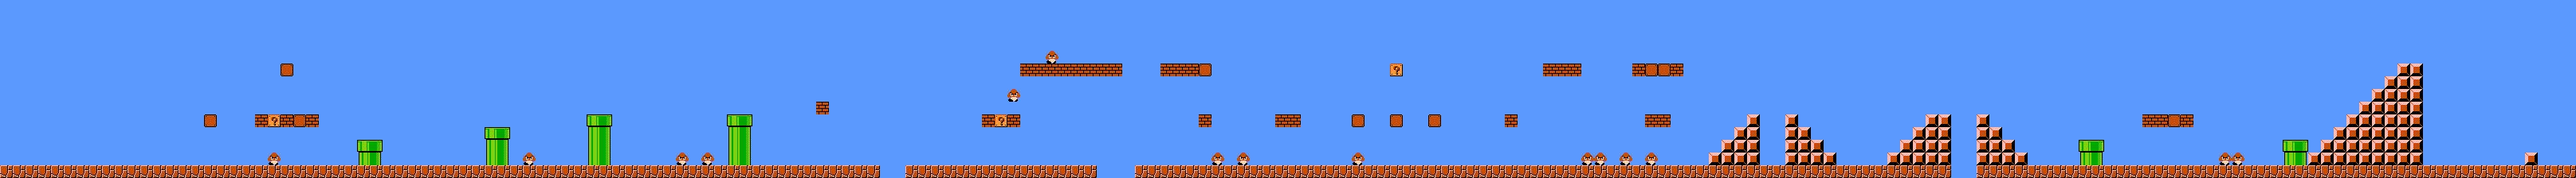
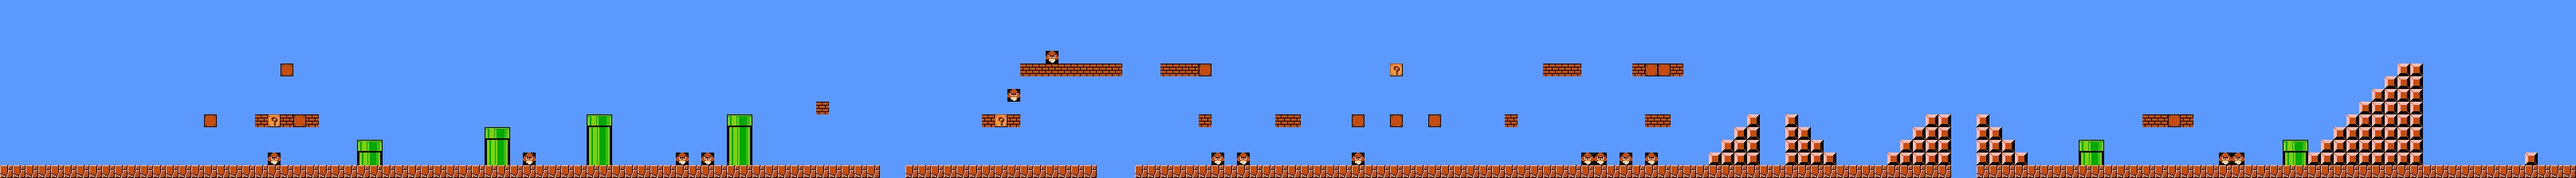
Added one last pixel gen method to see it if improves the results. Also added a SampleImage Generate that creates a sketch version of the model for testing

diff --git a/Main/PixelGen.py b/Main/PixelGen.py
@@ -10,6 +10,20 @@ def get_histogram_of_image(image):
     histogram = cv2.normalize(histogram, histogram).flatten()
     return histogram
 
+
+def get_average_pix(image):
+    height, width, channels = image.shape
+    avrg = [0, 0, 0]
+    for x2 in range(0, width):
+	    for y2 in range(0, height):
+		    pixelVal = image[x2,y2]
+		    avrg = [sum(x) for x in zip(avrg, pixelVal)] 
+    
+    tile_size = height*width
+    avrg = [int(avrg[0]/tile_size), int(avrg[1]/tile_size), int(avrg[2]/tile_size)]
+    return avrg
+
+
 def generate(img, sprites, spriteAsciiMap, tile_size = 16, asset_type = 'histogram'):
     opencv_img = img
     (row_max, column_max, rgb_max) = opencv_img.shape
@@ -25,12 +39,13 @@ def generate(img, sprites, spriteAsciiMap, tile_size = 16, asset_type = 'histogr
     # Get histograms of sprites
     sprites_images = {}
     sprites_histogram = {}
+    sprites_avrg = {}
     for sprite_name in sprites:
         sprite_img = sprites[sprite_name][1]
         sprite_img_cv = np.array(sprite_img)
-        sprite_img_cv = sprite_img_cv[:, :, ::-1].copy()
         sprites_images[sprite_name] = sprite_img
         sprites_histogram[sprite_name] = get_histogram_of_image(sprite_img_cv)
+        sprites_avrg[sprite_name] = get_average_pix(sprite_img_cv)
         
     # Find best game ascii for each tile
     image_output = []
@@ -45,16 +60,22 @@ def generate(img, sprites, spriteAsciiMap, tile_size = 16, asset_type = 'histogr
                     tile = cv2.resize(tile, (tile_size,tile_size))
                     sprite_img = cv2.resize(sprite_img, (tile_size,tile_size))
                     results[sprite_name] = (np.square(tile - sprite_img)).mean(axis=None)
-                    #results[sprite_name] = EvaluatePixel.evaluate(tile, sprite_img)
-                results = sorted([(v, k) for (k, v) in results.items()], reverse = False)
+                    #results[sprite_name] = EvaluatePixel.evaluate_cv(tile, sprite_img)
+                results = sorted([(v, k) for (k, v) in results.items()], reverse=False)
             if asset_type == 'histogram':
+                tile_histogram = get_histogram_of_image(tile)
                 for sprite_name in sprites_histogram:
                     sprite_histogram = sprites_histogram[sprite_name]
-                    tile_histogram = get_histogram_of_image(tile)
                     results[sprite_name] = cv2.compareHist(tile_histogram, sprite_histogram, cv2.HISTCMP_BHATTACHARYYA)
                     #HISTCMP_CORREL #HISTCMP_BHATTACHARYYA
                 results = sorted([(v, k) for (k, v) in results.items()], reverse = False)
-                    
+            if asset_type == 'avrg':
+                tile_avrg = get_average_pix(tile)
+                for sprite_name in sprites_avrg:
+                    sprite_avrg = sprites_avrg[sprite_name]
+                    results[sprite_name] = abs(tile_avrg[0] - sprite_avrg[0]) + abs(tile_avrg[1] - sprite_avrg[1]) + abs(tile_avrg[2] - sprite_avrg[2])
+                results = sorted([(v, k) for (k, v) in results.items()], reverse = False)
+
             bestAsciiName = results[0][1]
             bestAscii = ' '
             for sprite in spriteAsciiMap:

diff --git a/Main/SampleImageGenerator.py b/Main/SampleImageGenerator.py
@@ -1,0 +1,50 @@
+from PIL import Image
+
+
+# Read in an image:
+imageName = "TestImg"
+imageFile = imageName+".jpeg"
+inputImage_pil = Image.open(imageFile)
+pixelSize = 16
+
+resize = True
+level_width = 202
+level_height = 14
+level_start = 10
+
+if(resize):
+	dsize = (pixelSize*level_width, pixelSize*level_height)
+	inputImage_pil = inputImage_pil.resize(dsize)
+else:
+	left, top, right, bottom = level_start, 0, level_start+level_width, level_height
+	inputImage_pil = inputImage_pil.crop((pixelSize*left, pixelSize*top, pixelSize*right, pixelSize*bottom)) 
+	
+w,h = inputImage_pil.size
+pixels = inputImage_pil.load()
+
+for y in range(0, h, pixelSize):
+	for x in range(0, w, pixelSize):
+		
+		# Go over each tile of the image and find the average color:		
+		#pixelDict = {}
+		sumVal = [0, 0, 0]
+		for x2 in range(0, pixelSize):
+			for y2 in range(0, pixelSize):
+				pixelVal = pixels[x+x2,y+y2]
+				sumVal = [sum(x) for x in zip(sumVal, pixelVal)] 
+				#if(pixelVal not in pixelDict.keys()):
+					#pixelDict[pixelVal] = 0
+				#pixelDict[pixelVal] += 1
+				
+				
+		# set the tile to that color		
+		tile_size = pixelSize*pixelSize
+		sumVal = (int(sumVal[0]/tile_size), int(sumVal[1]/tile_size), int(sumVal[2]/tile_size))	
+		#sumVal = max(pixelDict, key=pixelDict.get)
+		
+		for x2 in range(0, pixelSize):
+			for y2 in range(0, pixelSize):
+				pixels[x+x2,y+y2] = sumVal
+					
+# Save the new image				
+inputImage_pil.save("./Sample.jpeg", "JPEG")

diff --git a/Main/Main.py b/Main/Main.py
@@ -20,7 +20,7 @@ gameOptions = sorted(os.listdir(dataLocation))
 print(gameOptions)
 generateMethods = ['CNN', 'Pixel']
 repairMethods = ['AutoEncoder', 'MarkovChain']
-pixelMethods = ['img', 'histogram']
+pixelMethods = ['img', 'histogram', 'avrg']
 MCMethods = ["NSEW", "NS", "EW", "SW", "NE"]
 
 # Inputs ================================================================================
@@ -32,7 +32,7 @@ inputImage_cv = cv2.imread(imageFile)
 
 # for now it streches or contracts image but maybe cropping would be better or should have an option for either
 w,h = inputImage_pil.size
-pixelSize = 8
+pixelSize = 16
 outputLevelWidth = w//pixelSize
 outputLevelHeight = h//pixelSize
 outputLevelWidth = 202
@@ -46,11 +46,11 @@ inputImage_pil.save("./output_images_and_levels/a-originalImage.jpeg", "JPEG")
 # TODO: May be some other hyperparameters we want to set here
 
 #user Input
-selectedGame = gameOptions[0]
+selectedGame = gameOptions[1]
 selectedGenMethod = generateMethods[1]
 selectedRepairMethod = repairMethods[1]
 
-selectedPixelMethods = pixelMethods[1]
+selectedPixelMethods = pixelMethods[2]
 selectedMCMethod = MCMethods[0]
 
 # Training Models=========================================================================

diff --git a/Main/EvaluatePixel.py b/Main/EvaluatePixel.py
@@ -20,3 +20,24 @@ def evaluate(original_img, level_img):
 
     sumVal = math.sqrt(sumVal/(X*Y*Z))
     return sumVal
+
+
+#def evaluate_cv(original_img, level_img):
+    #original_pixels = original_img
+    #level_pixels = level_img
+    
+    #(rowO, columnO, rgbO) = original_img.shape
+    #(rowL, columnL, rgbL) = level_img.shape
+    #Y = min(rowO, rowL)
+    #X = min(columnO, columnL)
+    #Z = max(rgbO, rgbL)
+    
+    #sumVal = 0
+    #for x in range(0,X):
+        #for y in range(0,Y):
+            #for z in range(0,Z):
+                #sumVal += abs(original_pixels[x, y][z] - level_pixels[x, y][z])  # **2
+
+    ##sumVal = math.sqrt(sumVal / (X * Y * Z))
+    #sumVal = sumVal / (X * Y * Z)
+    #return sumVal
